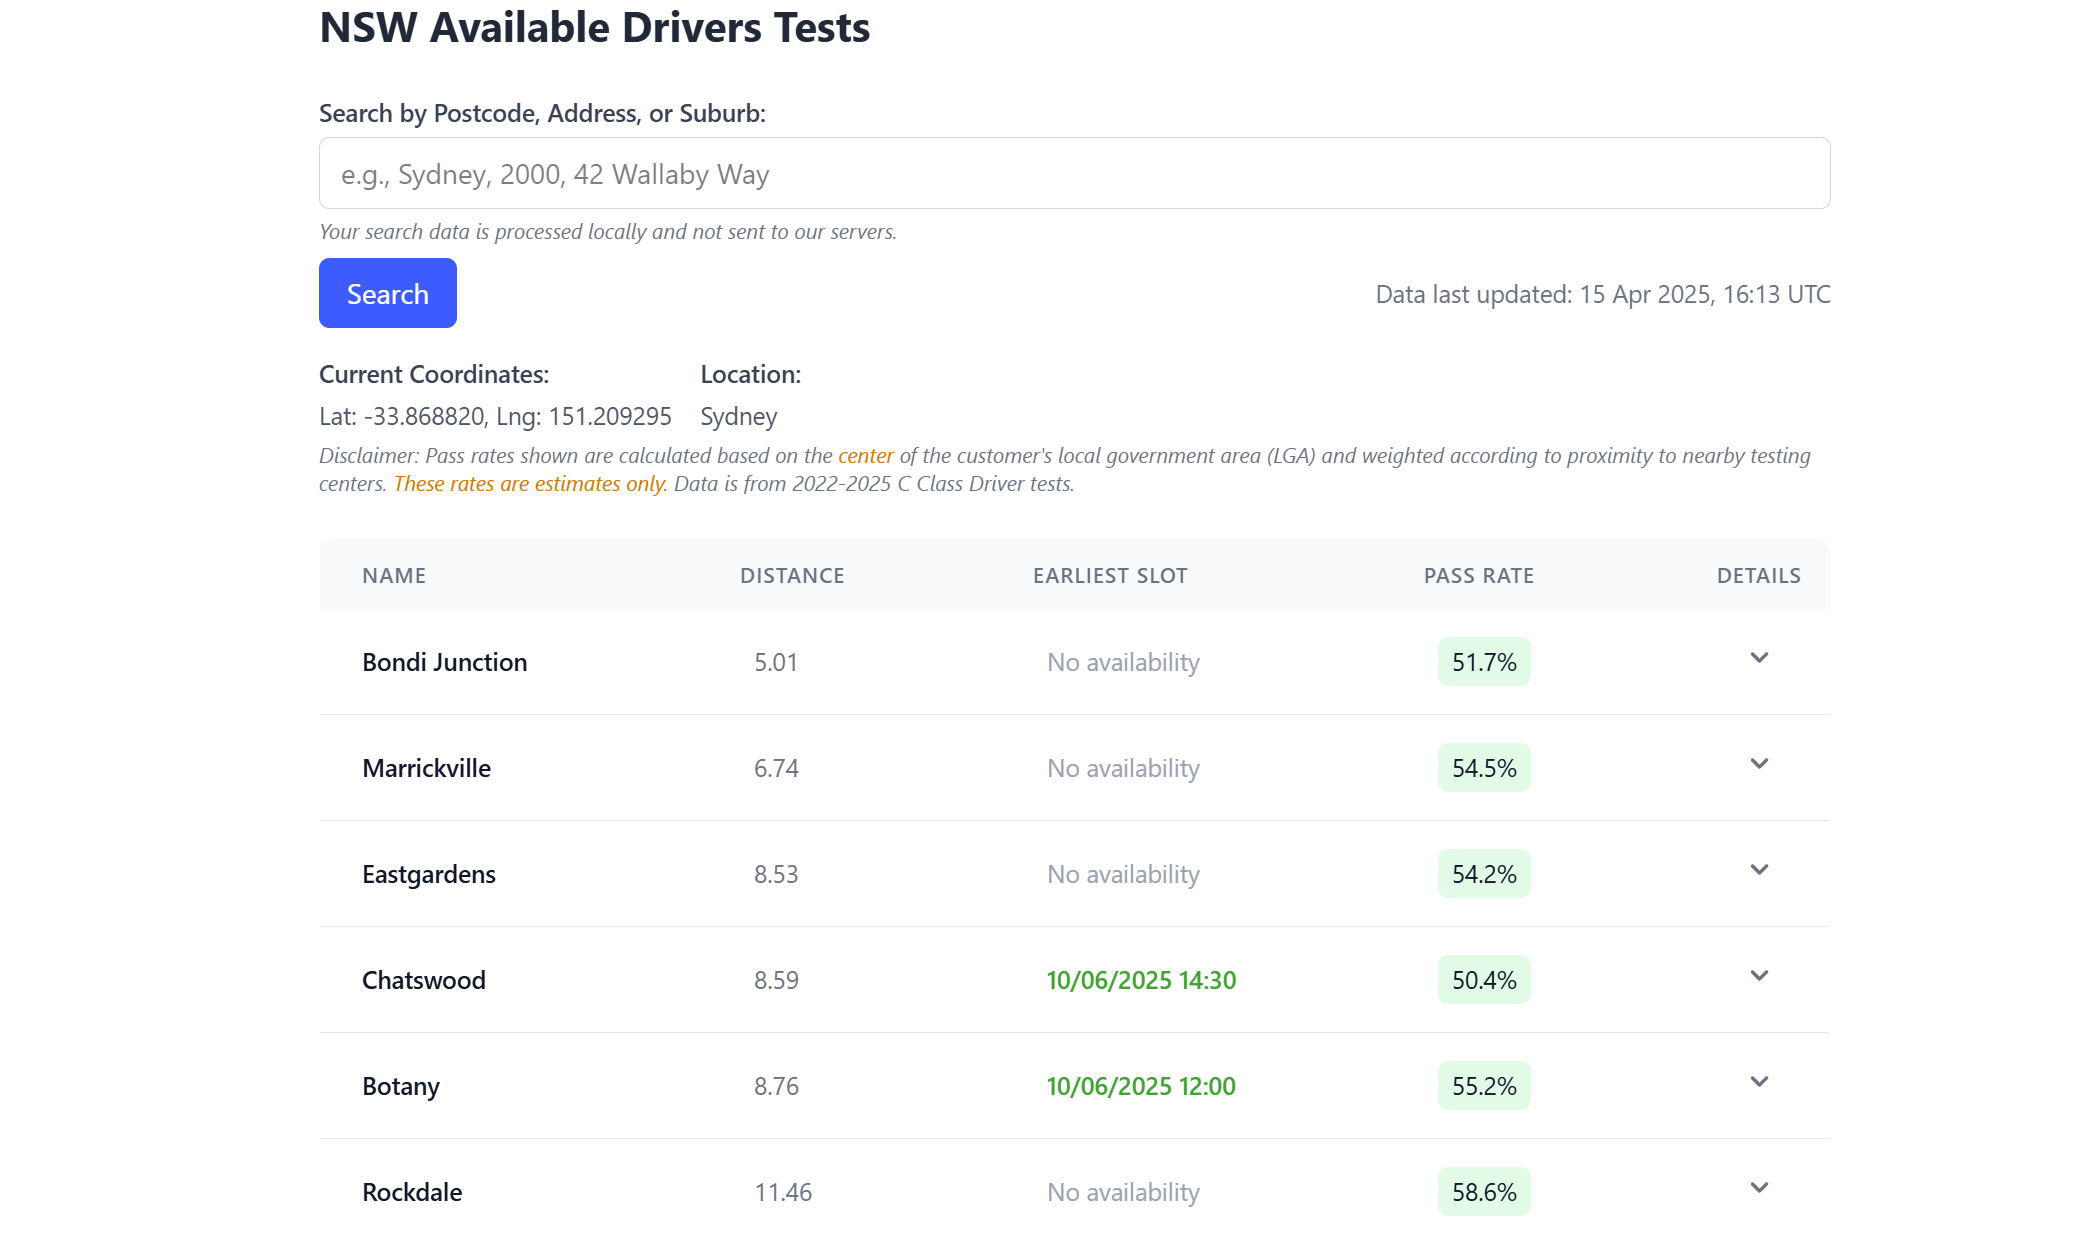
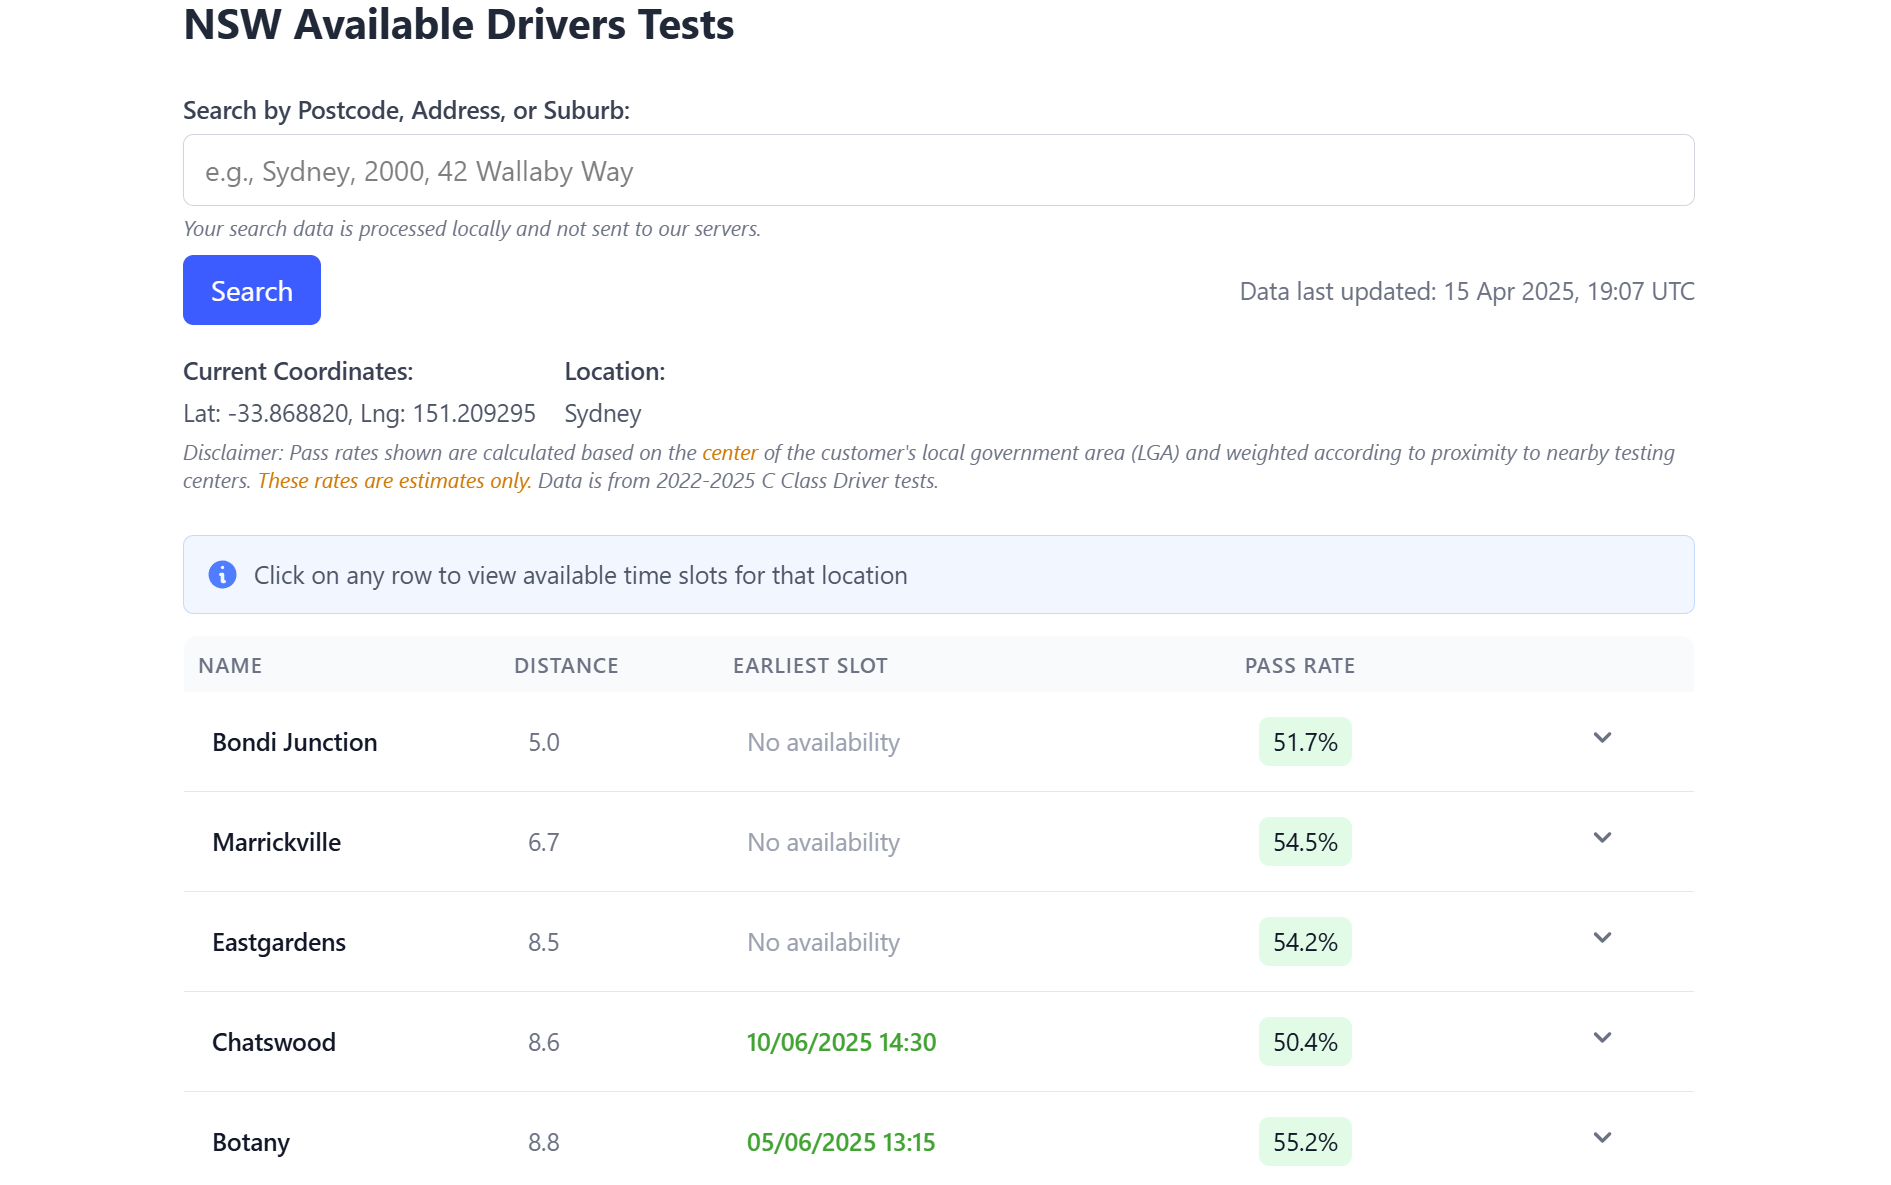
ui changes

diff --git a/src/pages/home.rs b/src/pages/home.rs
@@ -596,7 +596,7 @@ pub fn HomePage() -> impl IntoView {
                                 }
                             }
                         />
-                        <p class="mt-1 text-xs text-gray-500 italic">Your search data is processed locally and not sent to our servers.</p>
+                        <p class="mt-1 text-xs text-gray-500 italic">Your search is securely processed through nominatim.org, a trusted open-source geolocation service. No personal or identifying information is shared during this process.</p>
                     </div>
                 </div>
 
